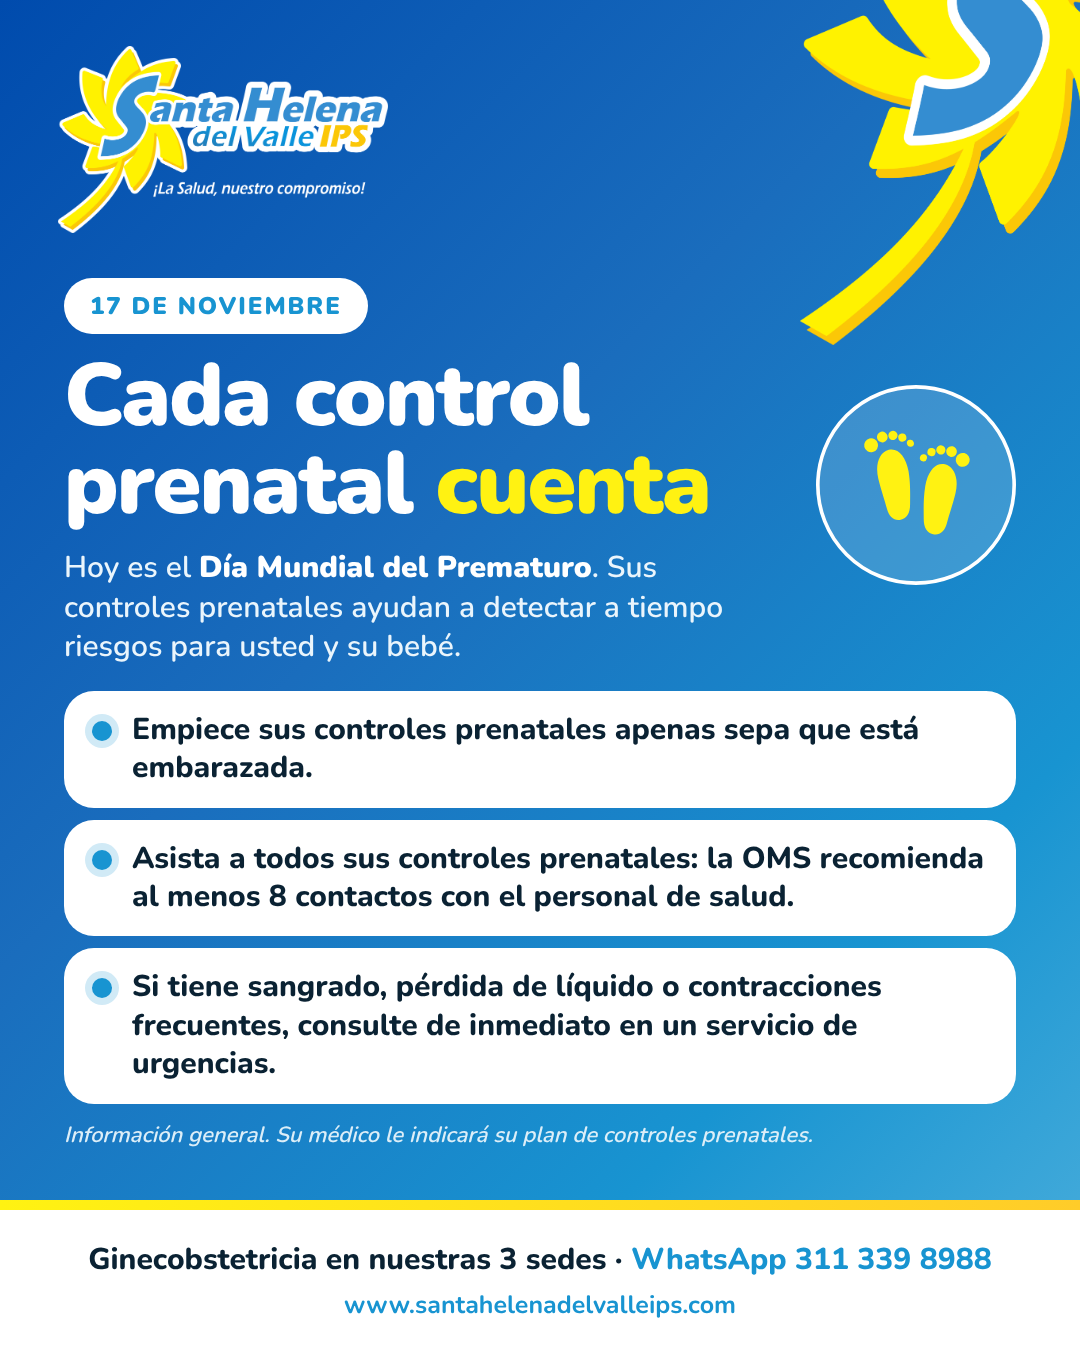
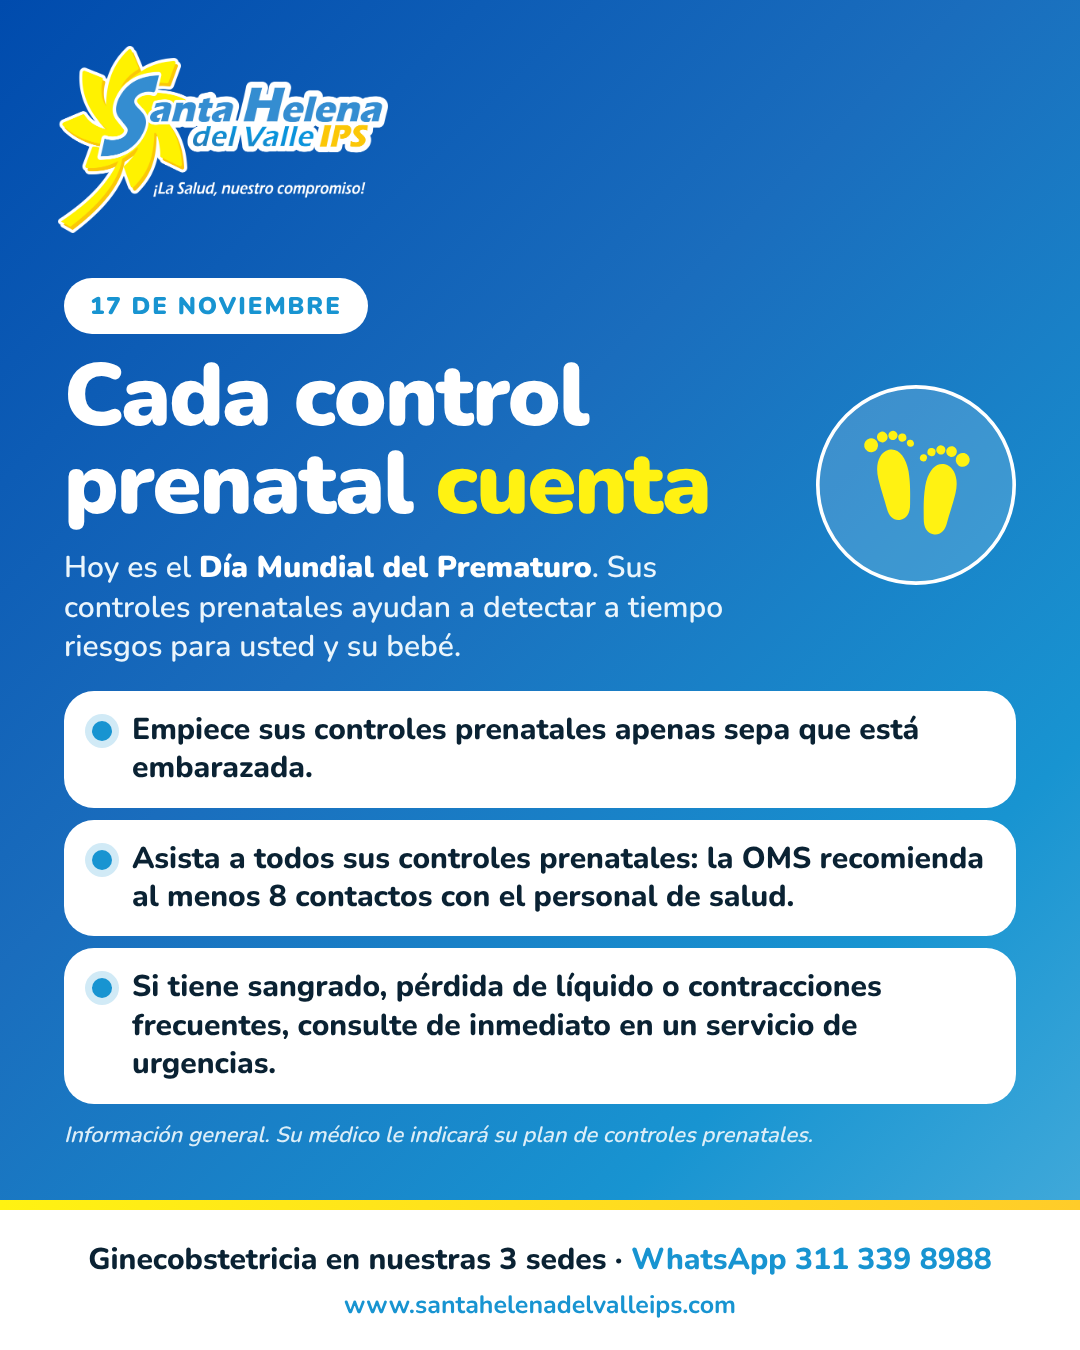
Post Día del Prematuro: sin la margarita cortada en la esquina
Claude-Session: https://claude.ai/code/session_01KgBCaN2Nb7mn6jAyyriR7q

Changed region(s): [[0.7333, 0.0, 1.0, 0.2489]]

diff --git a/entregas/creativo-instagram/2026-11-17-post-dia-prematuro/fuente/post.html b/entregas/creativo-instagram/2026-11-17-post-dia-prematuro/fuente/post.html
@@ -24,7 +24,6 @@ li::before{content:"";flex:none;width:20px;height:20px;margin-top:10px;border-ra
 .amarilla{position:absolute;left:0;right:0;bottom:140px;height:10px;background:linear-gradient(90deg,#FFF212,#FFCC29)}
 </style></head><body>
 <section id="post">
-  <img class="flor" src="img/icono-margarita-con-S-transparente.png">
   <img class="logo" src="img/logo-con-lema-transparente.png">
   <div class="huellas"><svg viewBox="0 0 220 220" width="200" height="200"><circle cx="110" cy="110" r="108" fill="rgba(255,255,255,.16)" stroke="#fff" stroke-width="4"/>
    <g transform="translate(34 46) scale(1.18) rotate(-14 40 50)" fill="#FFF212"><path d="M30 46c0-14 7-24 16-24s14 10 13 24c-1 12-4 22-6 30-2 8-6 12-12 12s-10-5-10-13c0-9-1-17-1-29z"/><circle cx="31" cy="14" r="6.5"/><circle cx="43" cy="9" r="5"/><circle cx="53" cy="10" r="4.3"/><circle cx="61" cy="14" r="3.8"/><circle cx="67" cy="21" r="3.3"/></g>

diff --git a/entregas/creativo-instagram/2026-11-17-post-dia-prematuro/LEAME.md b/entregas/creativo-instagram/2026-11-17-post-dia-prematuro/LEAME.md
@@ -4,7 +4,7 @@ Encargo directo del Agente Copies Redes con texto aprobado por Nicolas
 (`entregas/copies-redes/2026-11-16-post-dia-prematuro.md`, rama agente/copies-redes).
 
 **Versión 2 (18 nov 2026), con el manual de identidad oficial** (`marca/manual/manual-identidad-corporativa-2026.pdf`):
-fondo en degradado azul institucional, logo con contorno blanco y eslogan, margarita con la S en la esquina,
+fondo en degradado azul institucional, logo con contorno blanco y eslogan (sin la margarita cortada en la esquina, a pedido de Nicolas),
 huellitas de bebé en amarillo claro (se quitó el morado: el manual no permite otros tonos), tarjetas blancas
 con viñetas azul claro #1894D1 y franja blanca con ginecobstetricia, WhatsApp y web con www.
 
